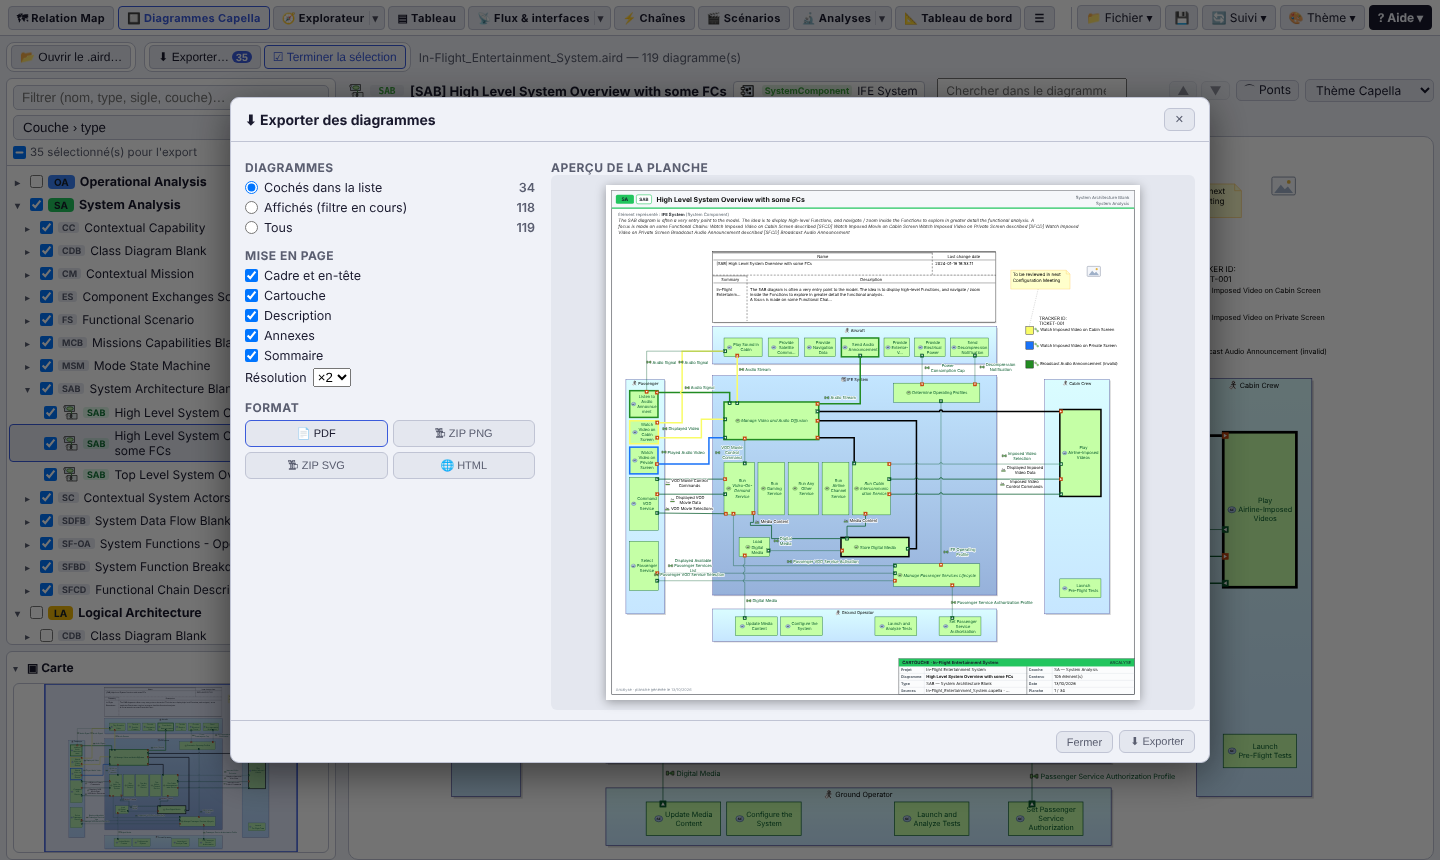
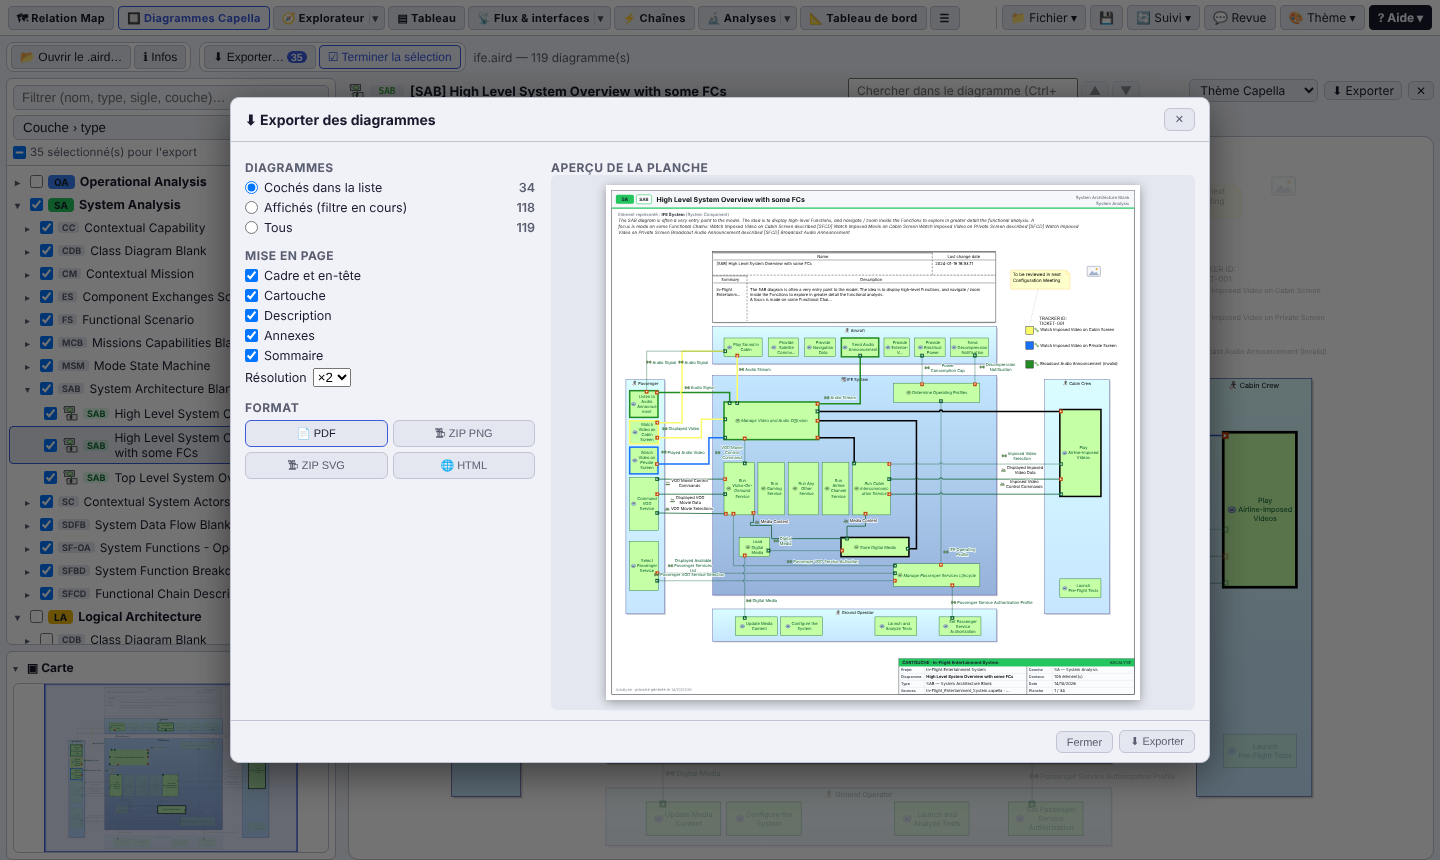
README : diagrammes en tête, section 💬 Revue, description mise en forme ; captures refaites (accueil, diagrammes) et nouvelles (revue, vérification, description) ; recherche du diagramme rétrécissable
Claude-Session: https://claude.ai/code/session_014GVZn2NhLJU1KZ7Srv5RAA

diff --git a/src/css/styles.css b/src/css/styles.css
@@ -1512,3 +1512,8 @@ body.crv-pop-body{margin:0;background:var(--c-bg);color:var(--c-text);font-famil
 .crv-hdr .cap-lf-btn{white-space:nowrap;}
 #vue-diagramme .cdg-vd-l1 .vd-chercher{flex:0 0 auto;margin-right:6px;}
 .cdg-crv{margin-left:0;}
+.crv-hdr > b{white-space:nowrap;}
+/* Ligne 1 étroite (panneau de détail ouvert) : la recherche rétrécit avant le nom du diagramme */
+#vue-diagramme .cdg-vd-l1 .vd-chercher{flex:0 1 auto;min-width:0;}
+#vue-diagramme .cdg-vd-l1 #vd-chercher{flex:0 1 230px;min-width:90px;}
+#vue-diagramme .cdg-vd-l1 #vd-nom{min-width:120px;}

diff --git a/README.md b/README.md
@@ -28,11 +28,38 @@ A Capella model grows fast: hundreds of functions, exchanges, components and por
 - 🔌 **Offline**: a single standalone HTML file (D3 library embedded), usable without a connection.
 - 🧭 **All ARCADIA layers**: OA, SA, LA, PA, EPBS — functions, components, exchanges, chains, scenarios, requirements, properties.
 - 🔲 **Capella diagrams**: with the project's `.aird`, the diagrams are drawn as in Capella, browsable and exportable as sheets (PDF, ZIP, HTML).
+- 💬 **Review**: comments and notes on the elements and the diagrams, severity, assignees, due dates, check after each new version of the model, report.
 - 🩺 **Ready-to-use checks**: unallocated elements, unconnected ports, incomplete traceability, names to review…
 - 📤 **Exports everywhere**: CSV, PNG, SVG, PDF, standalone HTML reports, dashboards printable in A4.
 - 🔄 **File watch**: Arcalyse detects new versions of the `.capella` file and shows what changed.
 
 ## What you can do
+
+### 🔲 Open the Capella diagrams
+Load the project's **`.aird`** file (or open the **📁 project folder**: the `.capella` and its diagrams are loaded together) and the **Capella diagrams** are drawn as in Capella — architecture, breakdown, data flow, class, mode & state, scenario diagrams… — read-only, without Capella installed:
+- an **explorer** grouped by layer (OA, SA, LA, PA, EPBS) and, if you wish, by diagram type (OA › OAB…), with collapsible groups, filter and adjustable width;
+- a **steady toolbar** on two rows (the diagram name, search, theme and export; then review notes, chains, filters, zoom, minimap), which no longer moves from one diagram to the next;
+- zoom, search in the diagram, **minimap** below the explorer (or inside the diagram), highlighting of a functional chain or physical path (only those **drawn in the diagram** are offered), filters (ports, labels, exchange categories);
+- **click an element** to open its details; conversely, the details panel lists the diagrams where the element appears and opens them centred on it;
+- **export of several diagrams at once** as framed **sheets**: header (layer, acronym, name, type), Capella description and represented element, title block (project, layer, content, sources, date, sheet number), appendix of the represented elements — as **PDF** (contents, bookmarks; warning if the file may be heavy), **PNG / SVG ZIP** (one folder per layer, one appendix CSV per diagram) or standalone **HTML report**, with a live preview.
+
+![Capella diagrams — explorer by layer › type, diagram on its two-row toolbar and minimap](docs/captures/11-diagrammes.png)
+
+![Capella diagrams — clicking an element highlights it with its neighbours and opens its attributes and the diagrams where it appears](docs/captures/13-diagrammes-detail.png)
+
+![Capella diagrams — export of several diagrams as sheets](docs/captures/12-diagrammes-export.png)
+
+### 💬 Review the model
+A **💬 Review** button opens a review panel: comments on the model, on its elements and on the diagrams, followed up from one version of the model to the next.
+- **Comment anywhere**: from the details panel (the element, its name, its description or any attribute), by **right-click** on an element in the views (blocks, tables, lists), or on a diagram: drag the **📝 Review note** onto it, or right-click an element or an empty area. Notes form a **layer independent of the `.aird`**: they follow the zoom, can be moved and resized, and are linked to diagram elements by **drawing a line** from the note to them.
+- **Optional fields**: only the text is required; severity (Information → Blocking), category, status (Open, In progress, Fixed to be checked, Validated, Rejected), author, creation date, due date, assignees, tags, replies.
+- **🔁 Check after an update**: the commented value is recorded; when a new version of the model is loaded, the comments whose element has changed (before / now) or disappeared are listed, to **validate** them or keep them open.
+- **📄 Report**: status × severity summary, standalone printable HTML report, CSV.
+- **Saved in the page** (💾) and **exportable to `.json`**, to share a review or **merge** those of several reviewers; on import, Arcalyse checks that the review concerns the loaded Capella project. The panel can also be opened in a **separate window** (another screen).
+
+![Review — notes on a diagram, linked to its elements, and the comment list](docs/captures/14-revue.png)
+
+![Review — check after a model update: before / now, validate or keep open](docs/captures/15-revue-verifier.png)
 
 ### 🗺 Navigate the model relations
 The **Relation Map** graph centres the view on an element and expands its neighbours down to the chosen depth: breakdowns, allocations, exchanges, cross-layer realizations. Horizontal, vertical or radial layouts; zoom, filters by relation and type; image export.
@@ -63,19 +90,6 @@ Sequence diagrams (ES, FS, OES, OAS, IS) are redrawn: lifelines, messages, execu
 
 ![Scenarios](docs/captures/05-scenarios.png)
 
-### 🔲 Open the Capella diagrams
-Load the project's **`.aird`** file (or open the **📁 project folder**: the `.capella` and its diagrams are loaded together) and the **Capella diagrams** are drawn as in Capella — architecture, breakdown, data flow, class, mode & state, scenario diagrams… — read-only, without Capella installed:
-- an **explorer** grouped by layer (OA, SA, LA, PA, EPBS) and, if you wish, by diagram type (OA › OAB…), with collapsible groups, filter and adjustable width;
-- zoom, search in the diagram, **minimap** below the explorer (or inside the diagram), highlighting of a functional chain or physical path, filters (ports, labels, exchange categories);
-- **click an element** to open its details; conversely, the details panel lists the diagrams where the element appears and opens them centred on it;
-- **export of several diagrams at once** as framed **sheets**: header (layer, acronym, name, type), Capella description and represented element, title block (project, layer, content, sources, date, sheet number), appendix of the represented elements — as **PDF** (contents, bookmarks; warning if the file may be heavy), **PNG / SVG ZIP** (one folder per layer, one appendix CSV per diagram) or standalone **HTML report**, with a live preview.
-
-![Capella diagrams — explorer by layer › type, diagram and minimap](docs/captures/11-diagrammes.png)
-
-![Capella diagrams — clicking an element highlights it with its neighbours and opens its attributes and the diagrams where it appears](docs/captures/13-diagrammes-detail.png)
-
-![Capella diagrams — export of several diagrams as sheets](docs/captures/12-diagrammes-export.png)
-
 ### 🔬 Analyse and check
 - **ƒ Functions**: hierarchy with descriptions, Excel-style table (value filters, copy), allocation to the system or to actors, cross-layer traceability, metrics, **name quality** (action verbs in French and English, customisable rules) and printable **functional file**.
 - **🧬 Cross-layer traceability**: OA → SA → LA → PA → EPBS realization rates by category, at a glance, and the list of untraced elements.
@@ -93,11 +107,14 @@ Choose among dozens of indicators (number of elements, function allocation, desc
 
 ### And also
 - 🧭 **Explorer**: tree, cards by layer, ARCADIA type index.
+- 🔍 **Details panel**: attributes, references in both directions, diagrams of the element, and its Capella **description formatted as in Capella** (links to other elements clickable, original HTML code on demand).
 - 🔗 **Links**: all the model relations, filterable and exportable.
 - ▤ **Table**: all elements in a table, with view tabs, relation columns and computed path columns (live preview), sort, filters and CSV export.
 - 🎨 **Themes**: Dark, Light, Office 2007, high contrast, and your own custom theme.
 - 🎓 **Guided tour** and built-in help, for each view.
-- 💾 **HTML page**: save the application with your model, your dashboards and your settings, in a single file to share.
+- 💾 **HTML page**: save the application with your model, your dashboards, your review comments and your settings, in a single file to share. Before another model replaces the displayed one, Arcalyse warns that unsaved work would be lost and offers to save first.
+
+![Details panel — Capella description formatted as in Capella, review buttons](docs/captures/16-description.png)
 
 ## Getting started
 
@@ -132,11 +149,38 @@ Un modèle Capella grossit vite : des centaines de fonctions, d'échanges, de co
 - 🔌 **Hors ligne** : un seul fichier HTML autonome (bibliothèque D3 embarquée), utilisable sans connexion.
 - 🧭 **Toutes les couches ARCADIA** : OA, SA, LA, PA, EPBS — fonctions, composants, échanges, chaînes, scénarios, exigences, propriétés.
 - 🔲 **Diagrammes Capella** : avec le `.aird` du projet, les diagrammes sont dessinés comme dans Capella, consultables et exportables en planches (PDF, ZIP, HTML).
+- 💬 **Revue** : commentaires et notes sur les éléments et les diagrammes, criticité, responsables, échéances, vérification à chaque nouvelle version du modèle, rapport.
 - 🩺 **Des contrôles prêts à l'emploi** : éléments non alloués, ports non connectés, traçabilité incomplète, noms à revoir…
 - 📤 **Exports partout** : CSV, PNG, SVG, PDF, rapports HTML autonomes, tableaux de bord imprimables en A4.
 - 🔄 **Suivi du fichier** : Arcalyse détecte les nouvelles versions du `.capella` et montre ce qui a changé.
 
 ## Ce que vous pouvez faire
+
+### 🔲 Ouvrir les diagrammes Capella
+Chargez le fichier **`.aird`** du projet (ou ouvrez le **📁 dossier du projet** : le `.capella` et ses diagrammes sont chargés ensemble) et les **diagrammes Capella** sont dessinés comme dans Capella — architecture, décomposition, flux de données, classes, modes et états, scénarios… — en lecture seule, sans Capella installé :
+- un **explorateur** classé par couche (OA, SA, LA, PA, EPBS) et, au choix, par type de diagramme (OA › OAB…), avec groupes repliables, filtre et largeur réglable ;
+- une **barre stable** sur deux lignes (nom du diagramme, recherche, thème et export ; puis notes de revue, chaînes, filtres, zoom, mini-carte), qui ne bouge plus d'un diagramme à l'autre ;
+- zoom, recherche dans le diagramme, **mini-carte** sous l'explorateur (ou dans le diagramme), mise en évidence d'une chaîne fonctionnelle ou d'un chemin physique (seuls ceux **dessinés dans le diagramme** sont proposés), filtres (ports, étiquettes, catégories d'échanges) ;
+- **clic sur un élément** : son panneau de détail ; à l'inverse, le panneau de détail liste les diagrammes où l'élément figure et les ouvre centrés sur lui ;
+- **export de plusieurs diagrammes à la fois** en **planches** encadrées : en-tête (couche, sigle, nom, type), description Capella et élément représenté, cartouche (projet, couche, contenu, sources, date, numéro de planche), annexe des éléments représentés — en **PDF** (sommaire, signets ; alerte si le fichier risque d'être lourd), **ZIP PNG / SVG** (un dossier par couche, un CSV d'annexe par diagramme) ou **rapport HTML** autonome, avec aperçu en direct.
+
+![Diagrammes Capella — explorateur par couche › type, diagramme avec sa barre sur deux lignes et mini-carte](docs/captures/11-diagrammes.png)
+
+![Diagrammes Capella — clic sur un élément : mis en surbrillance avec ses voisins, ses attributs et les diagrammes où il figure s'affichent](docs/captures/13-diagrammes-detail.png)
+
+![Diagrammes Capella — export de plusieurs diagrammes en planches](docs/captures/12-diagrammes-export.png)
+
+### 💬 Relire le modèle
+Un bouton **💬 Revue** ouvre un panneau de revue : des commentaires sur le modèle, ses éléments et les diagrammes, suivis d'une version du modèle à l'autre.
+- **Commenter partout** : depuis le panneau de détail (l'élément, son nom, sa description ou un attribut), par **clic droit** sur un élément dans les vues (blocs, tableaux, listes), ou sur un diagramme : glissez la **📝 Note de revue**, ou clic droit sur un élément ou dans un espace vide. Les notes forment un **calque indépendant du `.aird`** : elles suivent le zoom, se déplacent, se redimensionnent et se lient aux éléments du diagramme en **traçant un trait** de la note vers eux.
+- **Champs facultatifs** : seul le texte est demandé ; criticité (Information → Bloquante), catégorie, statut (Ouvert, En cours, Corrigé à vérifier, Validé, Rejeté), auteur, date de création, échéance, responsables, étiquettes, réponses.
+- **🔁 Vérifier après une mise à jour** : la valeur commentée est mémorisée ; au chargement d'une nouvelle version du modèle, les commentaires dont l'élément a changé (avant / maintenant) ou disparu sont listés, pour les **valider** ou les garder ouverts.
+- **📄 Rapport** : synthèse statut × criticité, rapport HTML autonome et imprimable, CSV.
+- **Enregistrés dans la page** (💾) et **exportables en `.json`**, pour transmettre une revue ou **fusionner** celles de plusieurs relecteurs ; à l'import, Arcalyse vérifie qu'elle porte sur le projet Capella chargé. Le panneau s'ouvre aussi dans une **fenêtre séparée** (autre écran).
+
+![Revue — notes sur un diagramme, liées à ses éléments, et liste des commentaires](docs/captures/14-revue.png)
+
+![Revue — vérification après une mise à jour du modèle : avant / maintenant, valider ou garder ouvert](docs/captures/15-revue-verifier.png)
 
 ### 🗺 Naviguer dans les relations du modèle
 Le graphe **Relation Map** centre la vue sur un élément et déplie ses voisins jusqu'à la profondeur voulue : décompositions, allocations, échanges, réalisations entre couches. Dispositions horizontale, verticale, radiale ; zoom, filtres par relation et par type ; export image.
@@ -167,19 +211,6 @@ Les diagrammes de séquence (ES, FS, OES, OAS, IS) sont redessinés : lignes de 
 
 ![Scénarios](docs/captures/05-scenarios.png)
 
-### 🔲 Ouvrir les diagrammes Capella
-Chargez le fichier **`.aird`** du projet (ou ouvrez le **📁 dossier du projet** : le `.capella` et ses diagrammes sont chargés ensemble) et les **diagrammes Capella** sont dessinés comme dans Capella — architecture, décomposition, flux de données, classes, modes et états, scénarios… — en lecture seule, sans Capella installé :
-- un **explorateur** classé par couche (OA, SA, LA, PA, EPBS) et, au choix, par type de diagramme (OA › OAB…), avec groupes repliables, filtre et largeur réglable ;
-- zoom, recherche dans le diagramme, **mini-carte** sous l'explorateur (ou dans le diagramme), mise en évidence d'une chaîne fonctionnelle ou d'un chemin physique, filtres (ports, étiquettes, catégories d'échanges) ;
-- **clic sur un élément** : son panneau de détail ; à l'inverse, le panneau de détail liste les diagrammes où l'élément figure et les ouvre centrés sur lui ;
-- **export de plusieurs diagrammes à la fois** en **planches** encadrées : en-tête (couche, sigle, nom, type), description Capella et élément représenté, cartouche (projet, couche, contenu, sources, date, numéro de planche), annexe des éléments représentés — en **PDF** (sommaire, signets ; alerte si le fichier risque d'être lourd), **ZIP PNG / SVG** (un dossier par couche, un CSV d'annexe par diagramme) ou **rapport HTML** autonome, avec aperçu en direct.
-
-![Diagrammes Capella — explorateur par couche › type, diagramme et mini-carte](docs/captures/11-diagrammes.png)
-
-![Diagrammes Capella — clic sur un élément : mis en surbrillance avec ses voisins, ses attributs et les diagrammes où il figure s'affichent](docs/captures/13-diagrammes-detail.png)
-
-![Diagrammes Capella — export de plusieurs diagrammes en planches](docs/captures/12-diagrammes-export.png)
-
 ### 🔬 Analyser et contrôler
 - **ƒ Fonctions** : hiérarchie avec descriptions, tableau façon Excel (filtres par valeur, copie), allocation au système ou aux acteurs, traçabilité entre couches, métriques, **qualité des noms** (verbes d'action en français et en anglais, règles personnalisables) et **dossier fonctionnel** imprimable.
 - **🧬 Traçabilité inter-couches** : taux de réalisation OA → SA → LA → PA → EPBS par catégorie, en un coup d'œil, et la liste des éléments non tracés.
@@ -197,11 +228,14 @@ Choisissez parmi des dizaines d'indicateurs (nombre d'éléments, allocation des
 
 ### Et aussi
 - 🧭 **Explorateur** : arborescence, cartes par couche, index des types ARCADIA.
+- 🔍 **Panneau de détail** : attributs, références dans les deux sens, diagrammes de l'élément, et sa **description Capella mise en forme comme dans Capella** (liens vers d'autres éléments cliquables, code HTML d'origine à la demande).
 - 🔗 **Liens** : toutes les relations du modèle, filtrables et exportables.
 - ▤ **Tableau** : tous les éléments en tableau, avec onglets de vues, colonnes de relations et colonnes calculées par chemin (aperçu en direct), tri, filtres et export CSV.
 - 🎨 **Thèmes** : Sombre, Clair, Office 2007, contraste élevé, et votre thème personnalisé.
 - 🎓 **Visite guidée** et aide intégrée, pour chaque vue.
-- 💾 **Page HTML** : enregistrez l'application avec votre modèle, vos tableaux de bord et vos réglages, en un seul fichier à transmettre.
+- 💾 **Page HTML** : enregistrez l'application avec votre modèle, vos tableaux de bord, vos commentaires de revue et vos réglages, en un seul fichier à transmettre. Avant qu'un autre modèle remplace celui affiché, Arcalyse prévient que le travail non enregistré serait perdu et propose d'enregistrer d'abord.
+
+![Panneau de détail — description Capella mise en forme comme dans Capella, boutons de revue](docs/captures/16-description.png)
 
 ## Démarrer
 
